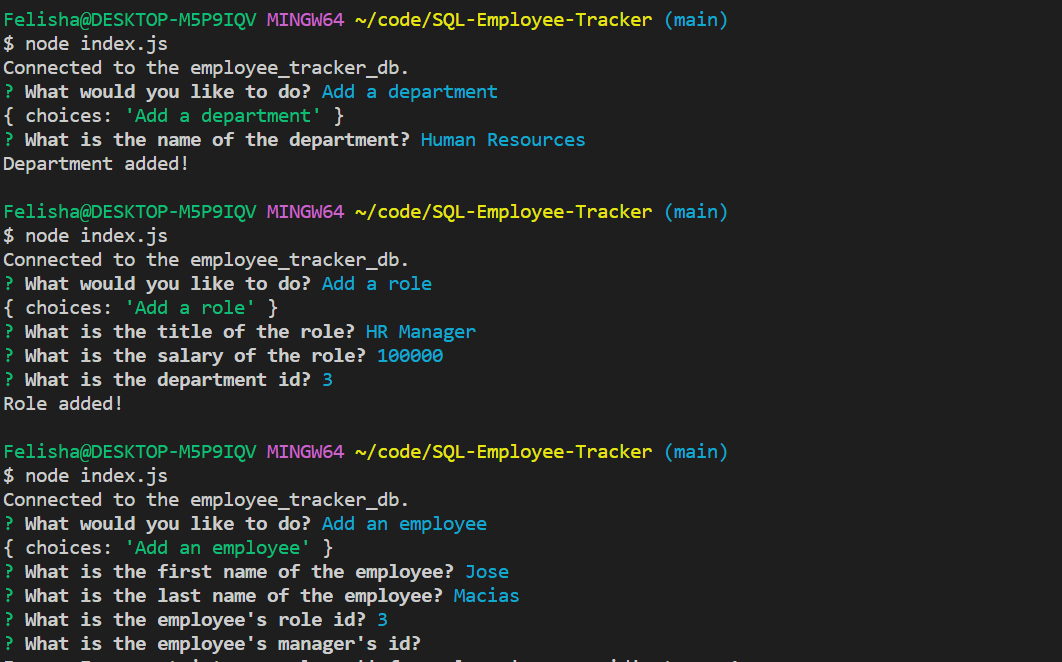
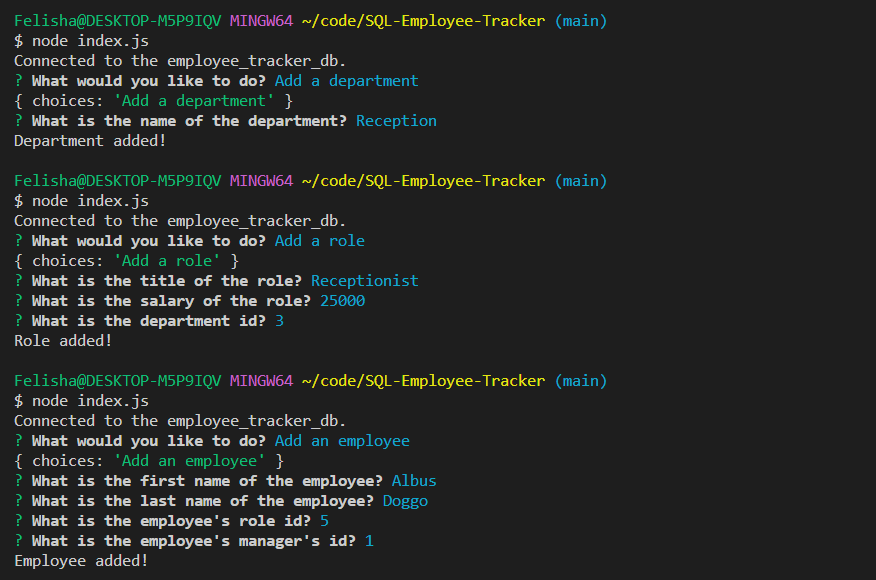
added more to seeds and updated readme with screenshots

Changed region(s): [[0.0, 0.0, 0.7089, 1.0], [0.5548, 0.9931, 0.6164, 1.0]]

diff --git a/README.md b/README.md
@@ -90,7 +90,10 @@ See video below for walkthrough.
 
 
 ### Screenshots
-![alt text](assets/images/screenshot.png)
+![Start Prompts](assets/images/startPrompts.png)
+![View Options](assets/images/viewOptions.png)
+![Add Options](assets/images/addOptions.png)
+![Update Options](assets/images/updateOptions.png)
 
 ## Credits
 
